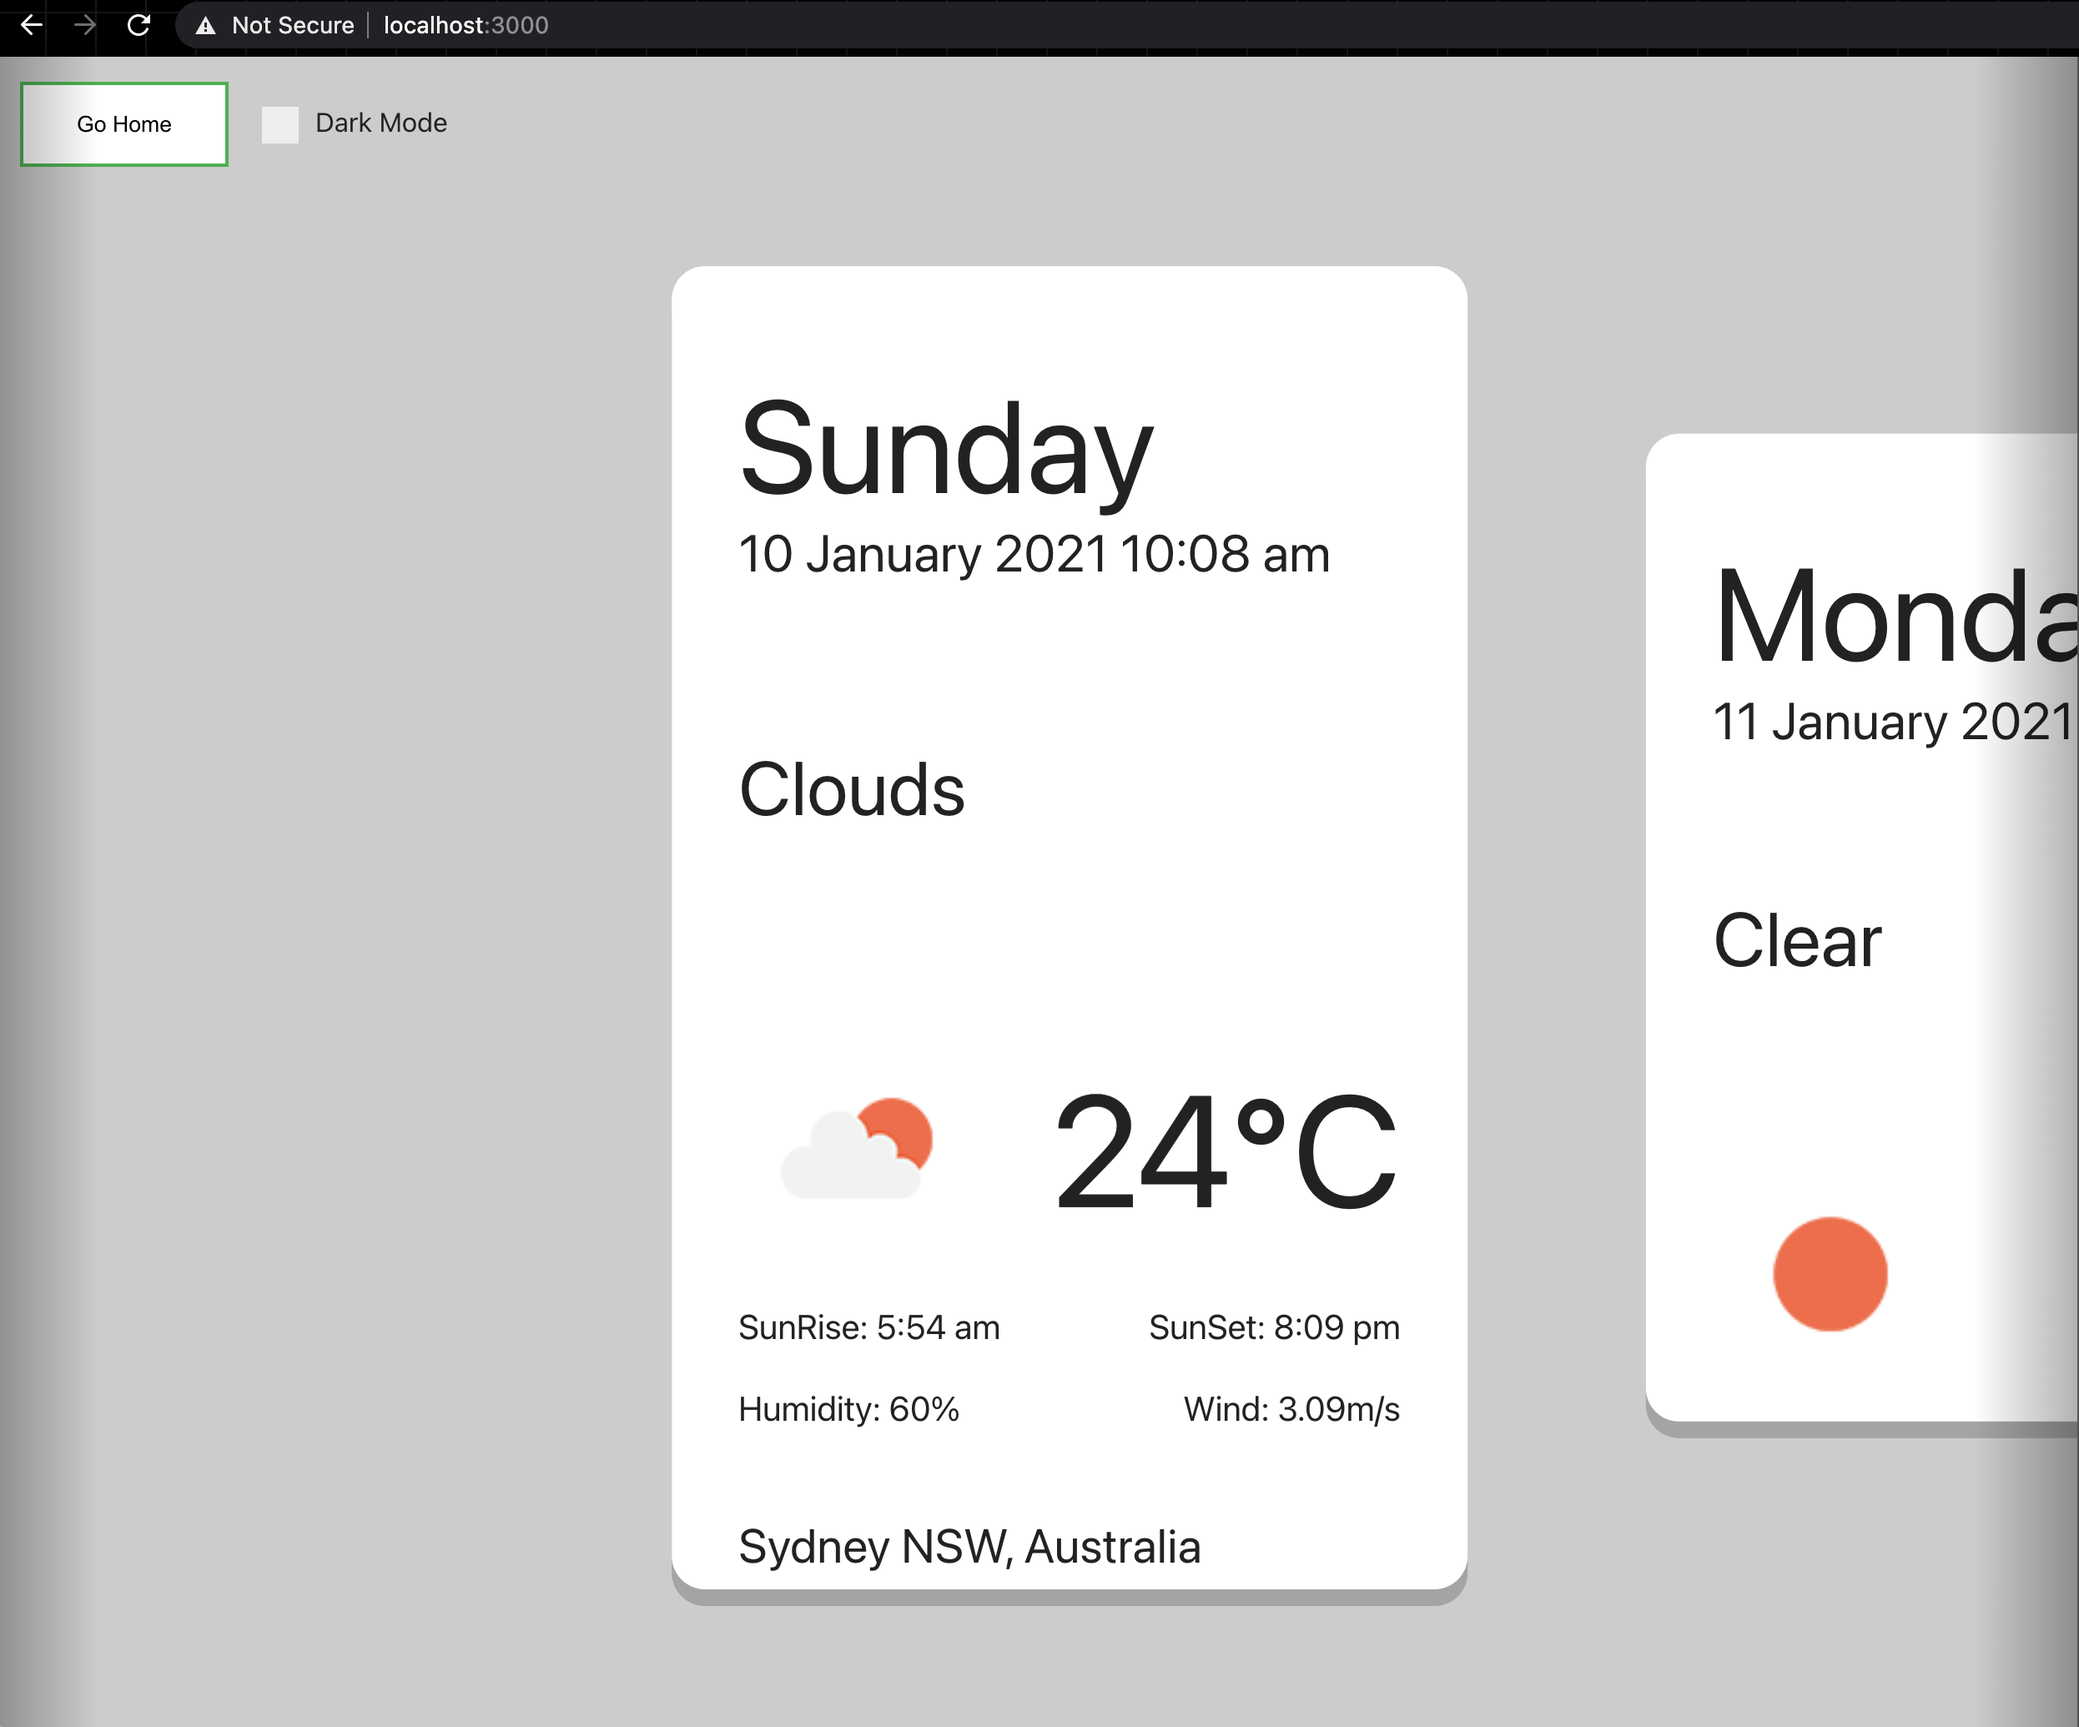
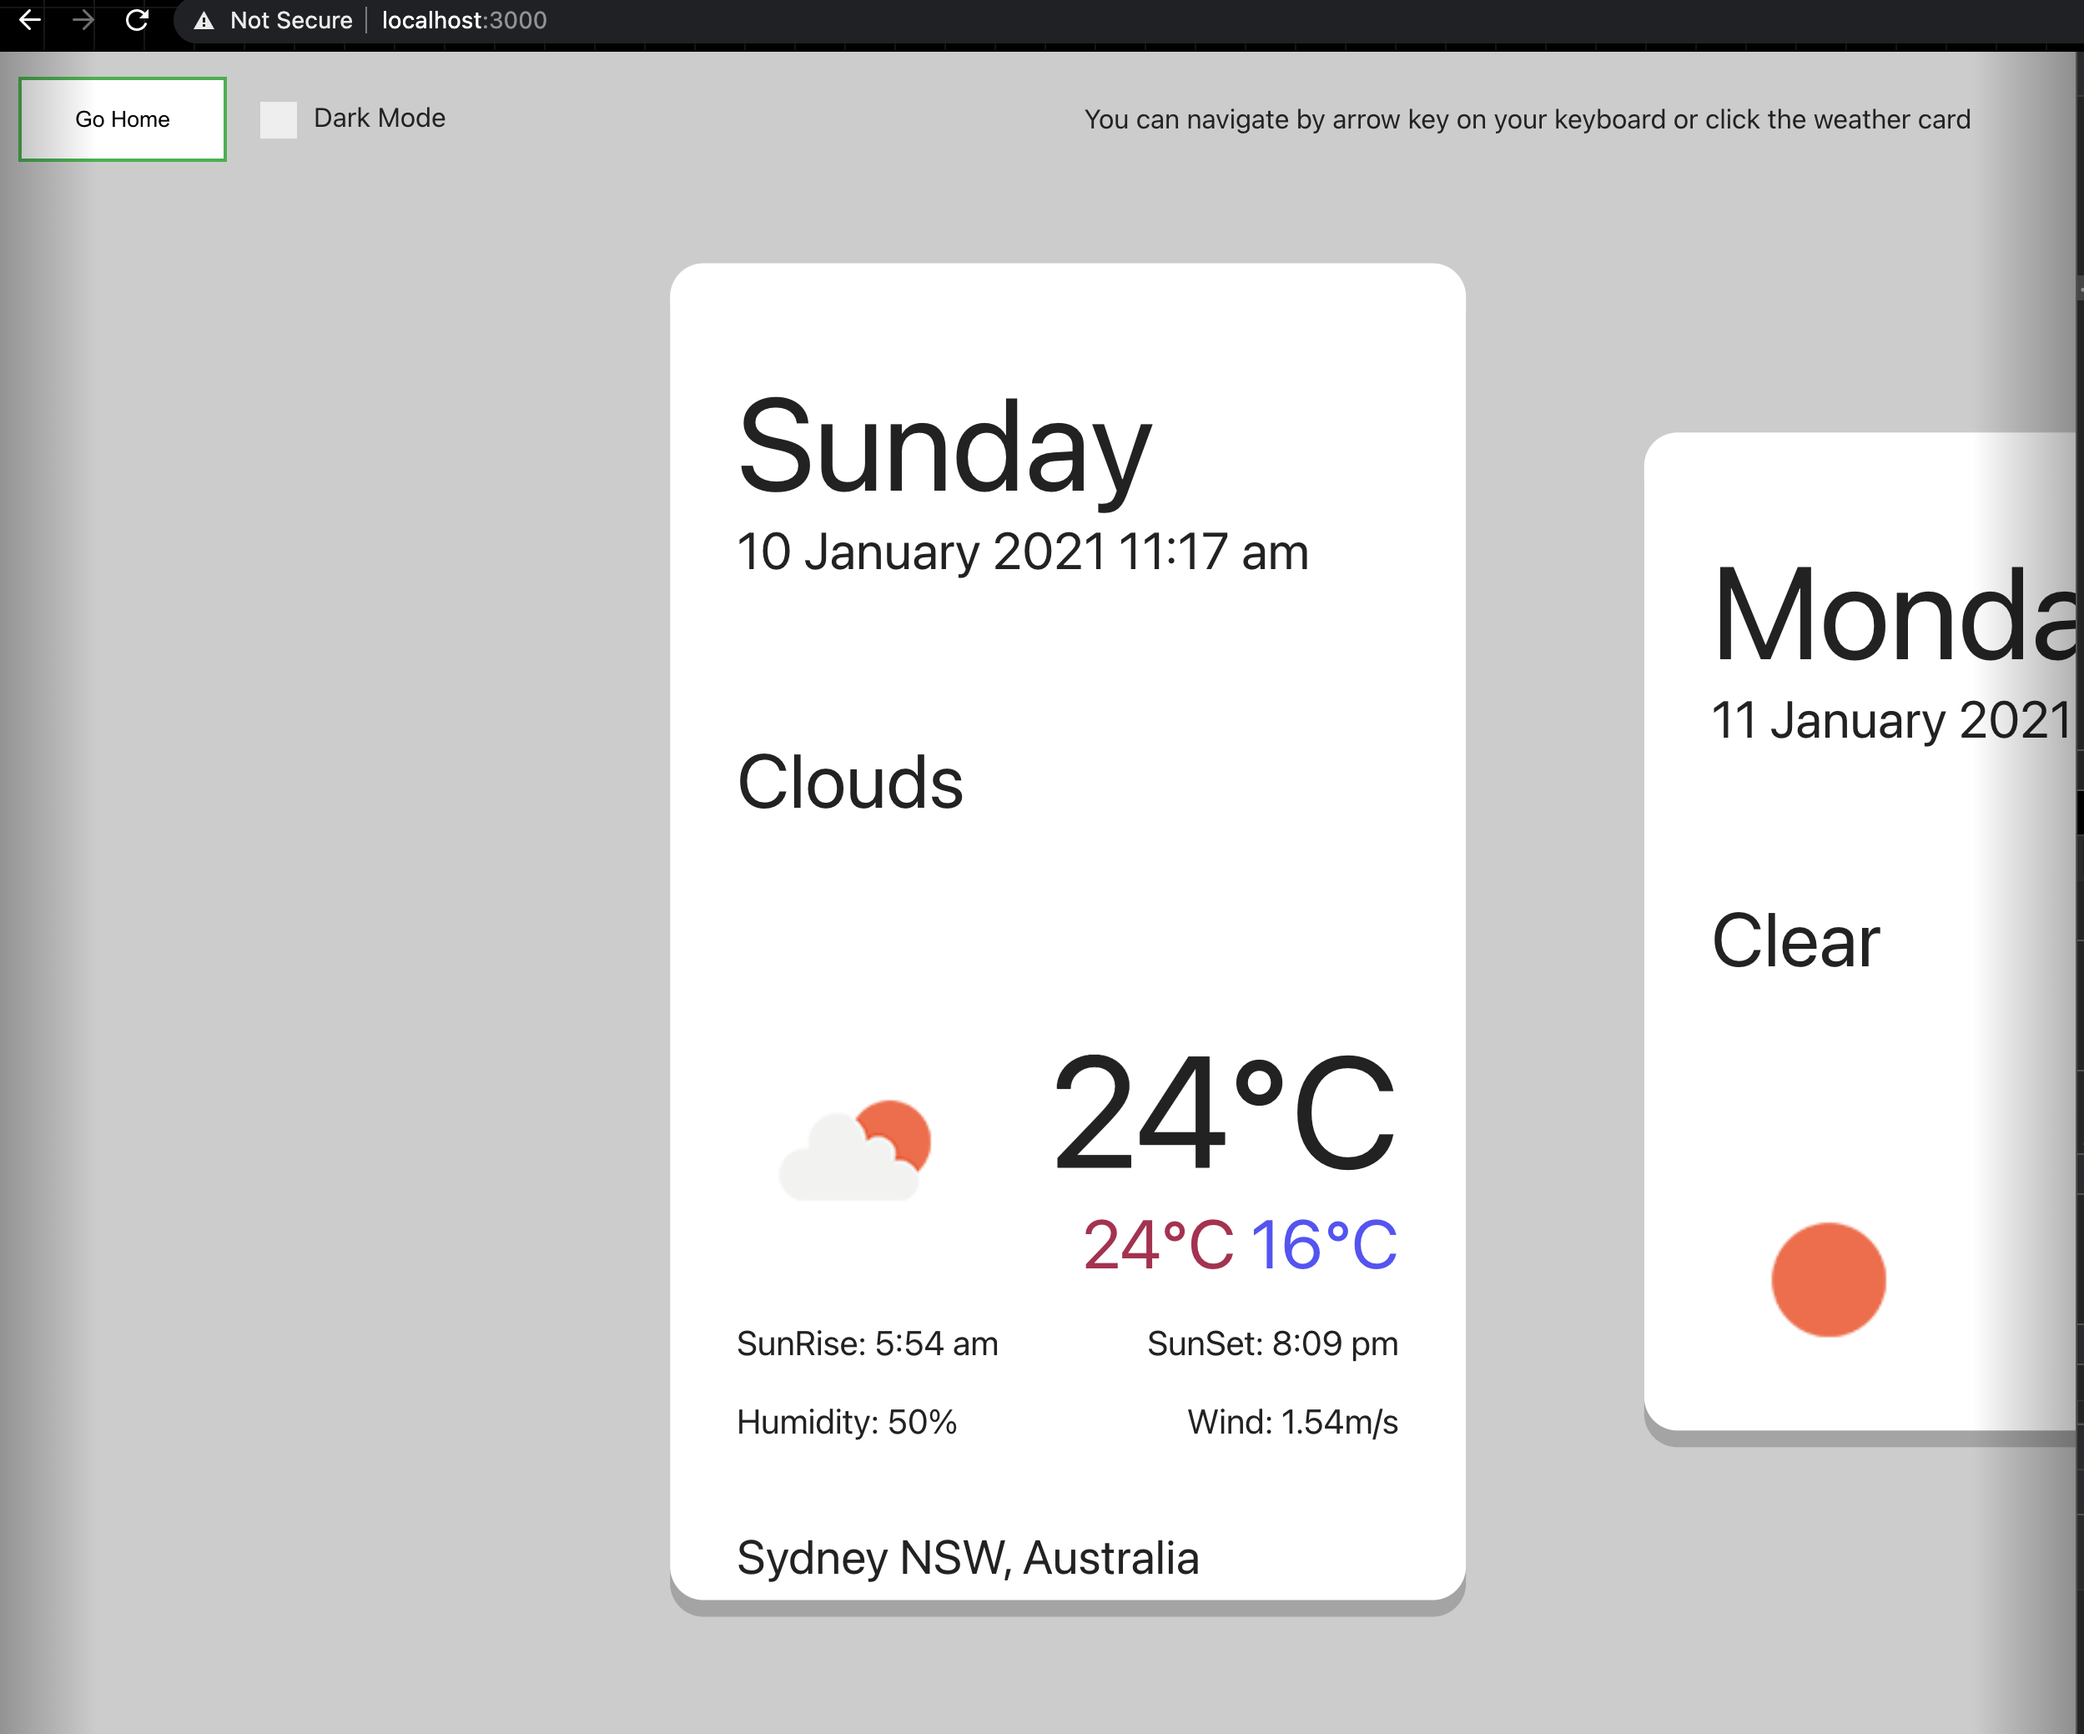
show todays max min temperature

diff --git a/src/weather/WeatherCard.js b/src/weather/WeatherCard.js
@@ -27,7 +27,14 @@ const WeatherCard = (props) => {
         <div className="iconAndTemp">
           <img className="icon" src={iconUrl} alt="weahter icon"></img>
           {props.index === 0 ? (
-            <div className="temp">{props.temp.curr}&#8451;</div>
+            <div>
+              <div className="temp">{props.temp.curr}&#8451;</div>
+              <div className="tempTodayMinMax">
+                <span className={`max${props.darkMode ? 'Dark' : ''}`}>{props.temp.max}&#8451;</span>
+                &nbsp;
+                <span className={`min${props.darkMode ? 'Dark' : ''}`}>{props.temp.min}&#8451;</span>
+              </div>
+            </div>
           ) : position === 'next' ? ''
             : (
             <div className="tempMinMax">

diff --git a/src/weather/WeatherApi.js b/src/weather/WeatherApi.js
@@ -43,7 +43,9 @@ export default class WeatherAPI {
         key: weatherData.data.current.dt.toString(),
         timestamp: weatherData.data.current.dt,
         temp: {
-          curr: Math.round(weatherData.data.current.temp)
+          curr: Math.round(weatherData.data.current.temp),
+          max: Math.round(weatherData.data.daily[0].temp.max),
+          min: Math.round(weatherData.data.daily[0].temp.min),
         },
         weather: weatherData.data.current.weather[0],
         others : {

diff --git a/src/weather/WeatherCard.css b/src/weather/WeatherCard.css
@@ -82,6 +82,11 @@
   text-align: right;
   font-size: calc(2em + 5vw);
 }
+.tempTodayMinMax {
+  display: flex;
+  justify-content: flex-end;
+  font-size: calc(1em + 2vw);
+}
 .tempMinMax {
   display: flex;
   flex-direction: column;
